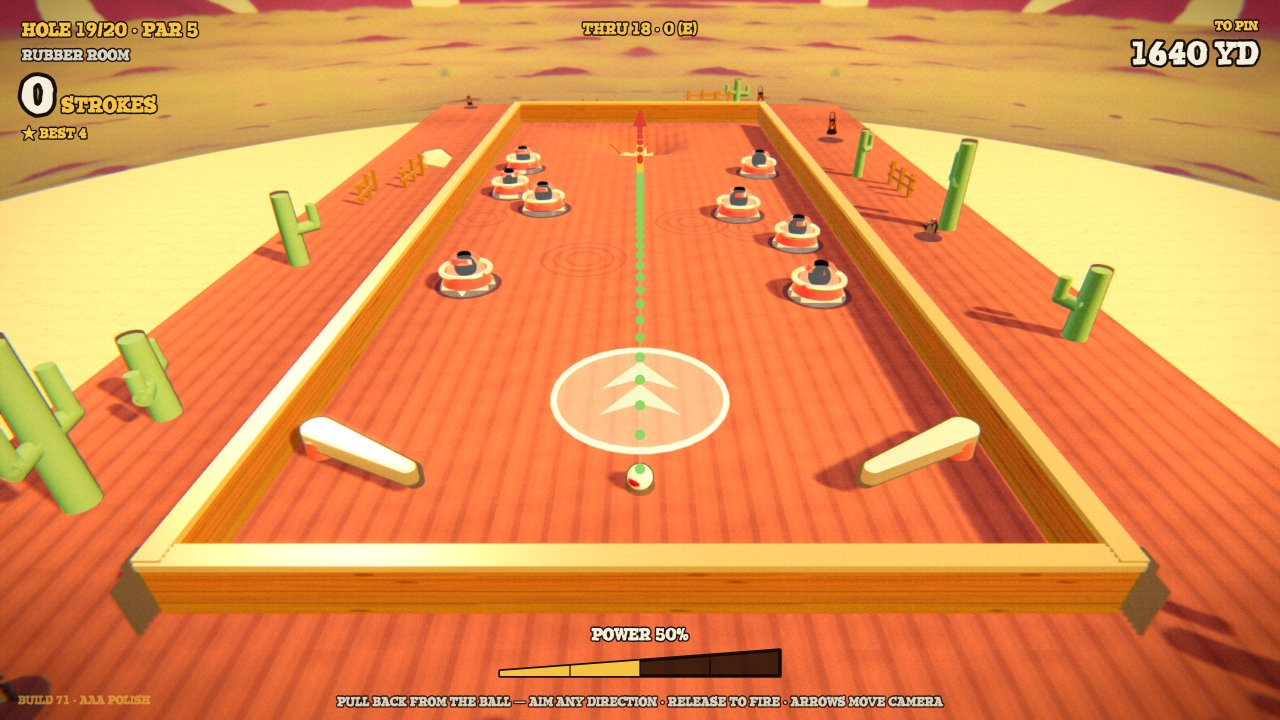
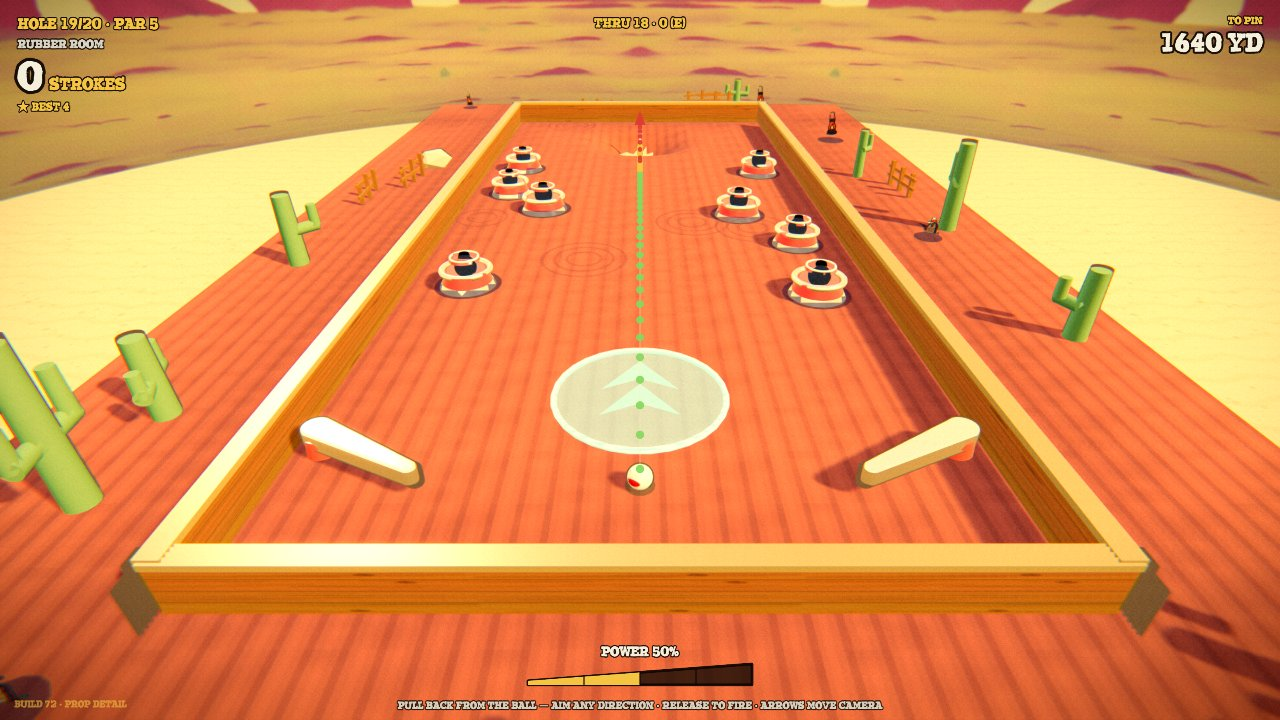
BUILD 72 prop detail: close-up asset quality pass. Coins are now embossed gold sheriff-star coins (disc + milled edge ring) instead of outlined donuts; pop bumper glass dome opacity .4->.22 so the glowing gold core reads (was a white ping-pong ball), smaller button, cream pinstripe on the cap; boost

diff --git a/js/pingolf.js b/js/pingolf.js
@@ -55,7 +55,7 @@
     jump: { c: 0x49d36a, e: 0x14702a, ch: '↑', name: 'JUMP', dur: 0, info: 'Pops the ball up into the air — hop clean over walls and hazards like a proper mini-golf jump.' }
   };
   var PU_KINDS = ['magnet', 'shield', 'slow', 'gem', 'jump'];
-  var BUILD = 'BUILD 71 · AAA POLISH';
+  var BUILD = 'BUILD 72 · PROP DETAIL';
 
   /* ================================================================ HOLE BUILDER
      A tiny DSL: each hole function fills a builder with obstacles and returns it. */
@@ -815,7 +815,7 @@
     // bumpers — classic pinball POP BUMPERS: chrome base + slam ring, glossy red skirt, glass dome over a glowing bulb that FLASHES on every hit
     var chromeB = new T.MeshStandardMaterial({ color: 0xf4f6fa, metalness: .96, roughness: .1, envMapIntensity: 1.7 });
     var bumpRed = new T.MeshPhysicalMaterial ? new T.MeshPhysicalMaterial({ color: 0x9c0e16, metalness: .15, roughness: .24, envMapIntensity: 1.0, clearcoat: 1, clearcoatRoughness: .12 }) : new T.MeshStandardMaterial({ color: 0x9c0e16, metalness: .2, roughness: .3 });
-    var bumpGlass = new T.MeshPhysicalMaterial ? new T.MeshPhysicalMaterial({ color: 0xfff2cf, metalness: .05, roughness: .05, transparent: true, opacity: .4, envMapIntensity: 2.0, clearcoat: 1, clearcoatRoughness: .04, side: T.DoubleSide }) : new T.MeshStandardMaterial({ color: 0xfff2cf, transparent: true, opacity: .4, roughness: .08 });
+    var bumpGlass = new T.MeshPhysicalMaterial ? new T.MeshPhysicalMaterial({ color: 0xfff2cf, metalness: .05, roughness: .05, transparent: true, opacity: .22, envMapIntensity: 2.0, clearcoat: 1, clearcoatRoughness: .04, side: T.DoubleSide }) : new T.MeshStandardMaterial({ color: 0xfff2cf, transparent: true, opacity: .22, roughness: .08 });
     hole.bumpers.forEach(function (bm, bmi) {
       var gy = hole.terrain(bm.x, bm.z), g = new T.Group(), r = bm.r;
       var cs = new T.Mesh(new T.CircleGeometry(r * 1.4, 24), new T.MeshBasicMaterial({ color: 0x07040a, transparent: true, opacity: .4 })); cs.rotation.x = -PI / 2; cs.position.set(bm.x, gy + 1.2, bm.z); R3.group.add(cs);
@@ -825,7 +825,8 @@
       var core = new T.Mesh(new T.SphereGeometry(r * 0.46, 18, 14), coreM); core.position.y = 30 + r * 0.16; g.add(core); bm.coreM = coreM;
       var dome = new T.Mesh(new T.SphereGeometry(r * 0.78, 28, 18, 0, TAU, 0, PI * 0.58), bumpGlass); dome.scale.y = 0.85; dome.position.y = 28; g.add(dome);
       var cap = new T.Mesh(new T.CylinderGeometry(r * 0.52, r * 0.64, 8, 32), bumpRed); cap.position.y = 28 + r * 0.6; cap.castShadow = true; g.add(cap);   // classic red bumper cap seen from above
-      var btn = new T.Mesh(new T.CylinderGeometry(r * 0.26, r * 0.3, 5, 18), new T.MeshStandardMaterial({ color: 0xfff3d4, emissive: 0xffce5a, emissiveIntensity: .4, roughness: .3 })); btn.position.y = 34 + r * 0.6; g.add(btn); bm.btnM = btn.material;
+      var stripe = new T.Mesh(new T.TorusGeometry(r * 0.58, 2.2, 8, 26), new T.MeshStandardMaterial({ color: 0xf5ead0, roughness: .5 })); stripe.rotation.x = -PI / 2; stripe.position.y = 30 + r * 0.6; g.add(stripe);
+      var btn = new T.Mesh(new T.CylinderGeometry(r * 0.2, r * 0.24, 5, 18), new T.MeshStandardMaterial({ color: 0xfff3d4, emissive: 0xffce5a, emissiveIntensity: .4, roughness: .3 })); btn.position.y = 34 + r * 0.6; g.add(btn); bm.btnM = btn.material;
       var ring = new T.Mesh(new T.TorusGeometry(r * 1.0, 5.5, 12, 34), chromeB); ring.rotation.x = -PI / 2; ring.position.y = 32; ring.castShadow = true; g.add(ring); bm.ring = ring; bm.ringY0 = 32;
       var halo = new T.Mesh(new T.SphereGeometry(r * 0.92, 20, 14), new T.MeshBasicMaterial({ color: 0xffd86a, transparent: true, opacity: 0, blending: T.AdditiveBlending, depthWrite: false })); halo.position.y = 30; g.add(halo); bm.halo = halo;
       var glow = new T.Mesh(new T.CircleGeometry(r * 1.95, 28), new T.MeshBasicMaterial({ color: 0xffc24e, transparent: true, opacity: 0, blending: T.AdditiveBlending, depthWrite: false })); glow.rotation.x = -PI / 2; glow.position.y = 2.6; g.add(glow); bm.glow = glow;
@@ -838,9 +839,9 @@
     // boosters
     hole.boosters.forEach(function (z) {
       var gy = hole.terrain(z.x, z.z), g = new T.Group();
-      var pad = new T.Mesh(new T.CircleGeometry(z.r, 28), new T.MeshStandardMaterial({ color: 0x2aa8ff, emissive: 0x1466aa, emissiveIntensity: .55, transparent: true, opacity: .5, roughness: .4 })); pad.rotation.x = -PI / 2; pad.position.y = 2.5; g.add(pad);
+      var pad = new T.Mesh(new T.CircleGeometry(z.r, 28), new T.MeshStandardMaterial({ color: 0x1d86d8, emissive: 0x14589c, emissiveIntensity: .7, transparent: true, opacity: .78, roughness: .4 })); pad.rotation.x = -PI / 2; pad.position.y = 2.5; g.add(pad);
       var rim = new T.Mesh(new T.TorusGeometry(z.r, 4.5, 8, 30), new T.MeshStandardMaterial({ color: 0x4ad0ff, emissive: 0x1f8ad0, emissiveIntensity: .8, roughness: .35 })); rim.rotation.x = -PI / 2; rim.position.y = 3; g.add(rim);
-      var chevM = new T.MeshBasicMaterial({ color: 0xbdeaff, transparent: true, opacity: .9, side: T.DoubleSide, depthWrite: false });
+      var chevM = new T.MeshBasicMaterial({ color: 0xf2fbff, transparent: true, opacity: .95, side: T.DoubleSide, depthWrite: false });
       [0, -0.5].forEach(function (off) {   // flat glowing chevrons pointing the launch direction (no more white teepee cone)
         var zz = z.r * off, cg = new T.BufferGeometry();
         cg.setAttribute('position', new T.BufferAttribute(new Float32Array([0, 4, z.r * 0.72 + zz, -z.r * 0.46, 4, z.r * 0.1 + zz, 0, 4, z.r * 0.32 + zz, 0, 4, z.r * 0.32 + zz, z.r * 0.46, 4, z.r * 0.1 + zz, 0, 4, z.r * 0.72 + zz]), 3));
@@ -916,7 +917,14 @@
     });
     (hole.coins || []).forEach(function (cn) {
       var g = hole.terrain(cn.x, cn.z);
-      var coin = new T.Mesh(new T.TorusGeometry(22, 7, 10, 18), new T.MeshStandardMaterial({ color: 0xffd54a, emissive: 0xc89a10, emissiveIntensity: .85, metalness: .9, roughness: .18, envMapIntensity: 1.4 })); coin.position.set(cn.x, g + 40, cn.z); coin.castShadow = true; outline(coin, 1.18); R3.group.add(coin); cn.mesh = coin;
+      var coinM = new T.MeshStandardMaterial({ color: 0xffd54a, emissive: 0xc89a10, emissiveIntensity: .5, metalness: .9, roughness: .22, envMapIntensity: 1.4 });
+      var coinM2 = new T.MeshStandardMaterial({ color: 0xa97c10, emissive: 0x6e4f06, emissiveIntensity: .45, metalness: .9, roughness: .32 });
+      var grp = new T.Group();
+      var disc = new T.Mesh(new T.CylinderGeometry(24, 24, 6, 28), coinM); disc.rotation.x = PI / 2; disc.castShadow = true; grp.add(disc);
+      var crim = new T.Mesh(new T.CylinderGeometry(26.5, 26.5, 3.2, 28), coinM2); crim.rotation.x = PI / 2; grp.add(crim);   // milled darker edge ring
+      var starShp = new T.Shape(); for (var si = 0; si < 10; si++) { var sa = si / 10 * TAU - PI / 2, sr = si % 2 ? 7.5 : 16, sx = Math.cos(sa) * sr, sy = Math.sin(sa) * sr; si ? starShp.lineTo(sx, sy) : starShp.moveTo(sx, sy); }
+      var star = new T.Mesh(new T.ExtrudeGeometry(starShp, { depth: 9, bevelEnabled: false }), coinM2); star.position.z = -4.5; grp.add(star);   // sheriff star embossed through both faces
+      grp.position.set(cn.x, g + 40, cn.z); R3.group.add(grp); cn.mesh = grp;
     });
     (hole.powerups || []).forEach(function (pu) {
       var g = hole.terrain(pu.x, pu.z), cfg = PU[pu.kind] || PU.magnet;

diff --git a/game.html b/game.html
@@ -73,6 +73,6 @@
     </div>
   </div>
   <script src="vendor/three.min.js"></script>
-  <script src="js/pingolf.js?v=115"></script>
+  <script src="js/pingolf.js?v=116"></script>
 </body>
 </html>